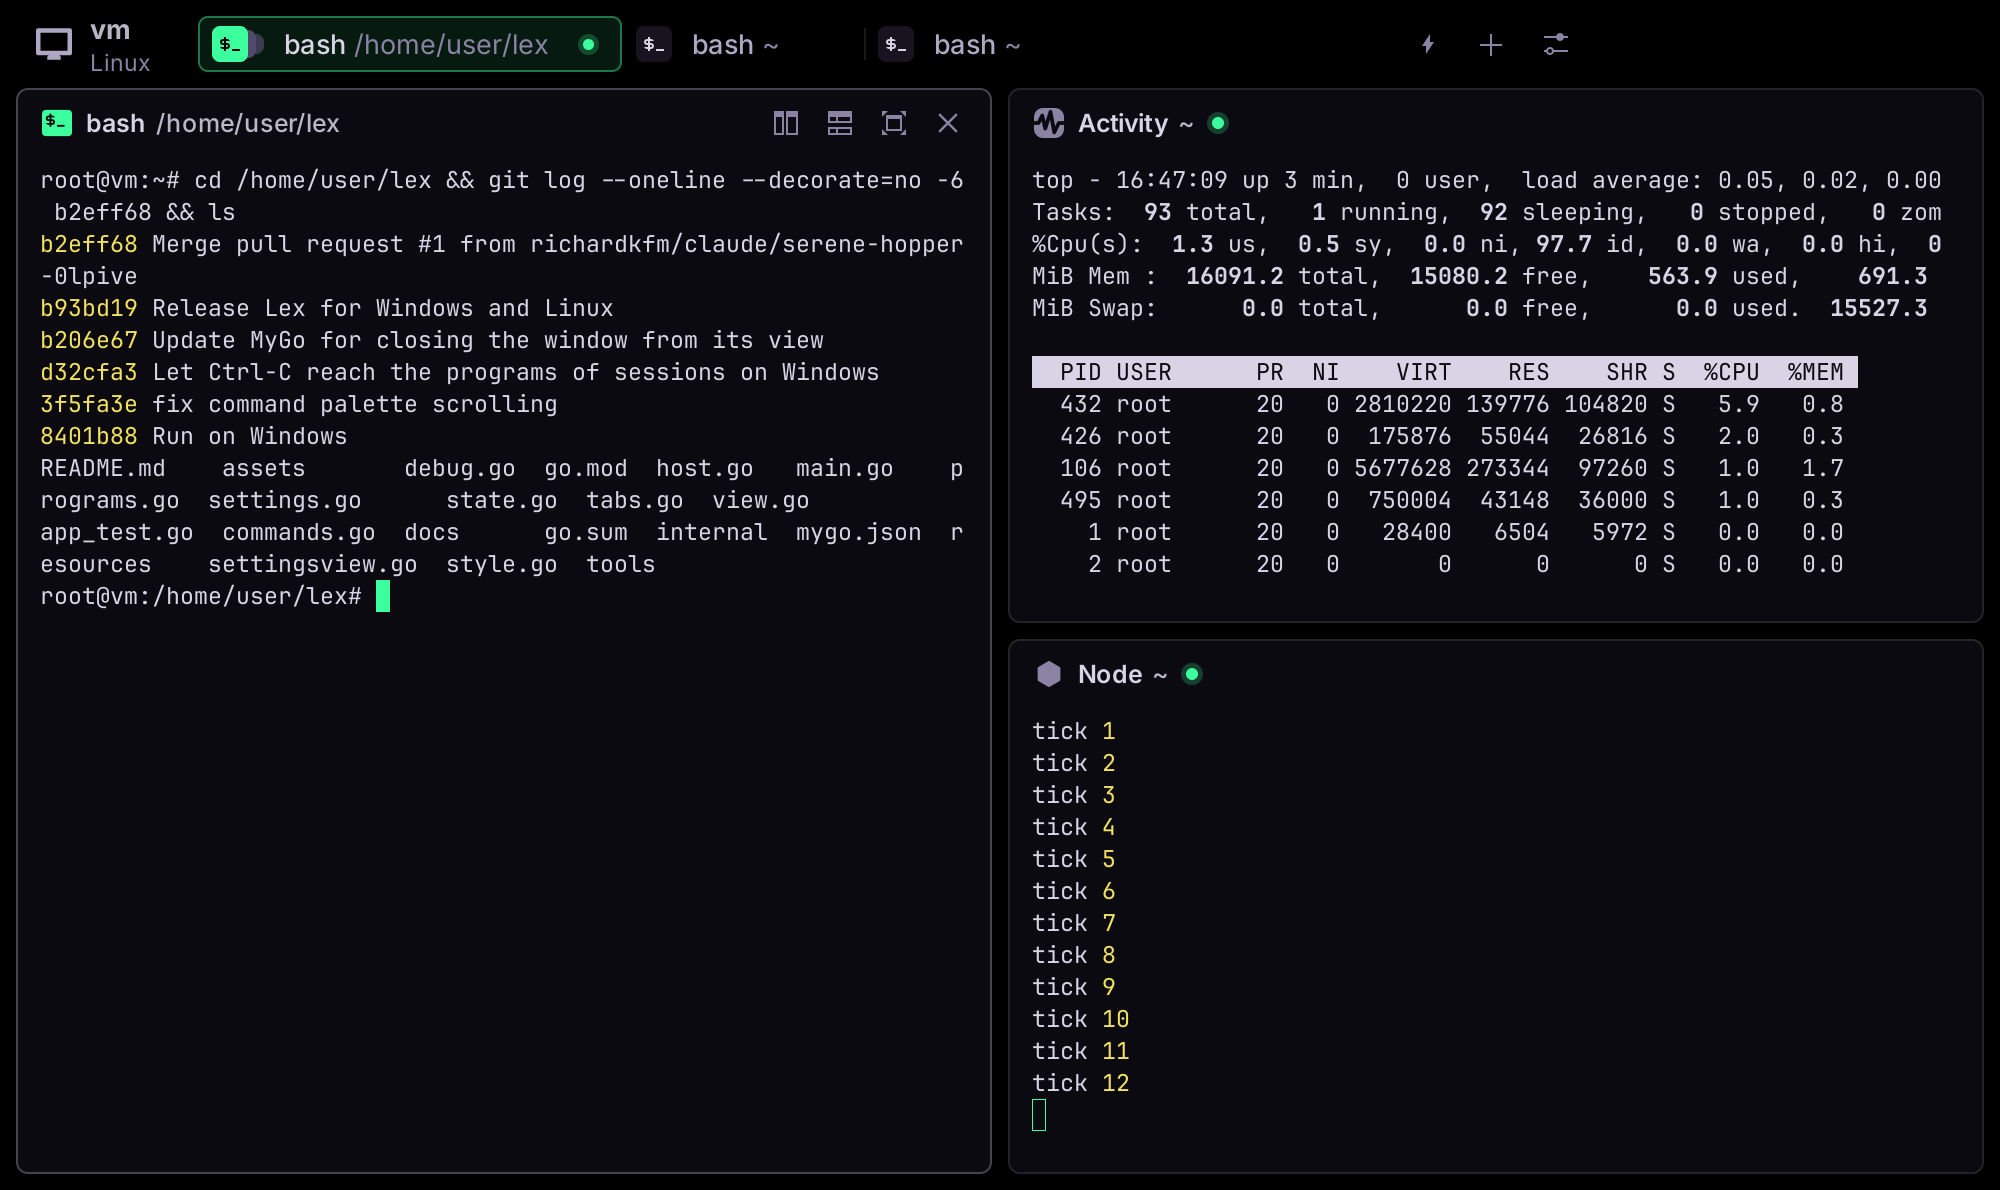
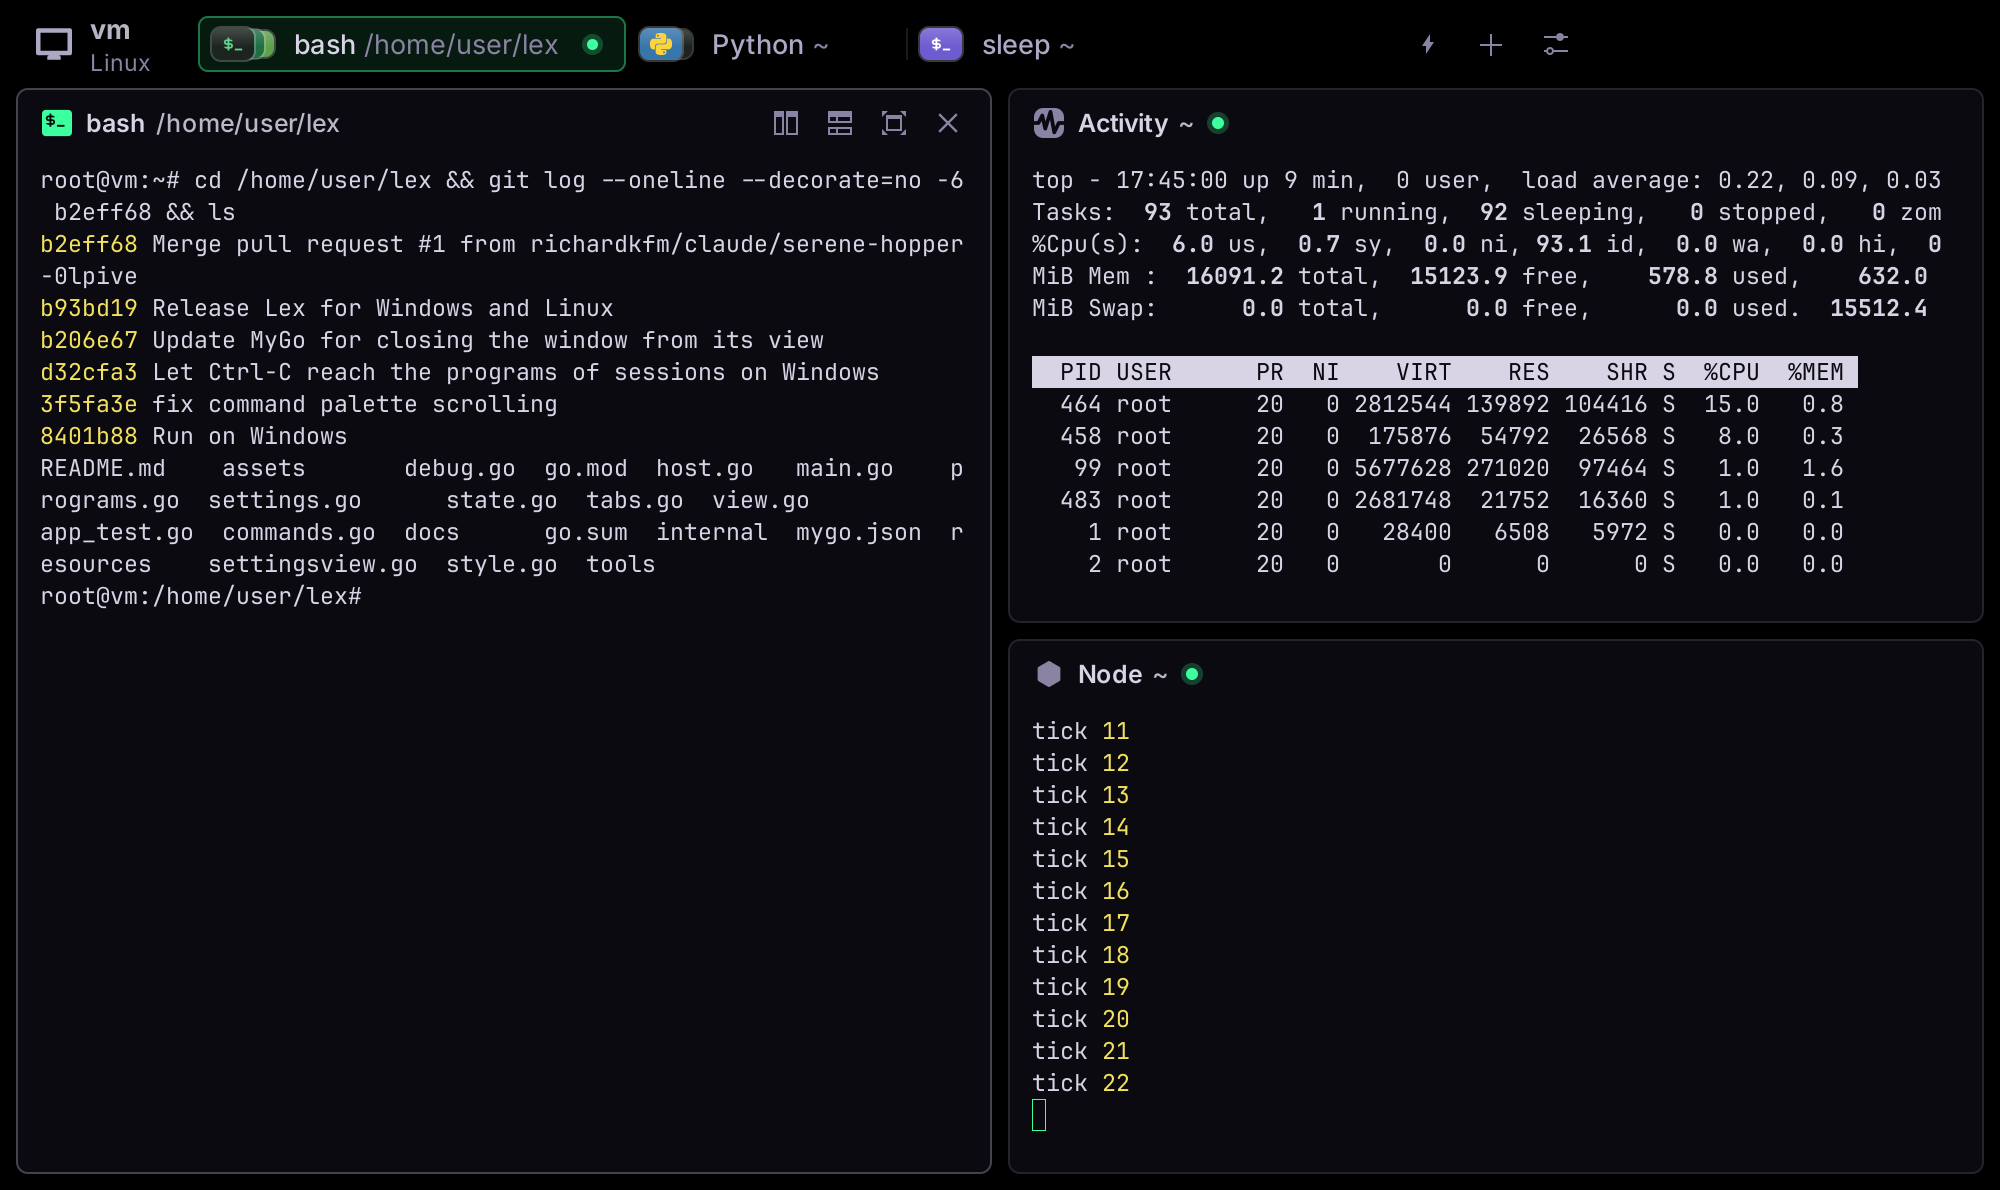
Bring back the original's stacked program cards in the tabs
The tabs' tiles are again the original's little cards: 21x16 pills in
their programs' colors (the shell's dark green, Node's green, Python's
blue, a color of its own for any other program), each in a light rim
with a soft shadow and a sheen along its top, the focused pane's in
front with its glyph and the others peeking out 5 px behind it. The
glyphs stay the current ones ($_, the logos, the pulse).

Claude-Session: https://claude.ai/code/session_013UKWhSrB5hz3PLbYRVpi52

diff --git a/programs.go b/programs.go
@@ -33,59 +33,61 @@ func icon(name string) *ui.SVG {
 }
 
 // program is how a program shows: its name, its glyph in headers, and the
-// glyph on its tile in tabs. Tiles are one color, the theme's, whatever the
-// program: logos keep their shapes, not their brands' colors.
+// tile of tabs, in its own colors.
 type program struct {
 	Name string
 	// Glyph is the icon of the pane's header, in the color of the text.
 	Glyph string
-	// TileGlyph is the glyph on the program's tile in tabs, Glyph when
-	// empty.
-	TileGlyph string
+	// TileBg and TileFg color the tile of the program in tabs; TileGlyph
+	// is the glyph on it, Glyph when empty.
+	TileBg, TileFg ui.Color
+	TileGlyph      string
+	// TileBorder outlines light tiles.
+	TileBorder bool
 	// Shell is a shell at its prompt.
 	Shell bool
 }
 
 var (
-	shellTile = program{Glyph: "utilities-terminal", TileGlyph: "terminal-prompt", Shell: true}
+	shellTile = program{Glyph: "utilities-terminal", TileGlyph: "terminal-prompt", TileBg: ui.Hex("#1d2420"), TileFg: ui.Hex("#5fd38d"), Shell: true}
 
 	programs = map[string]program{
-		"codex":     {Name: "Codex", Glyph: "brand:openai"},
-		"claude":    {Name: "Claude Code", Glyph: "brand:claude"},
-		"node":      {Name: "Node", Glyph: "node-hex", TileGlyph: "brand:nodedotjs"},
-		"bun":       {Name: "Bun", Glyph: "brand:bun"},
-		"deno":      {Name: "Deno", Glyph: "brand:deno"},
-		"python":    {Name: "Python", Glyph: "brand:python"},
-		"lazygit":   {Name: "Git Changes", Glyph: "brand:git"},
-		"tig":       {Name: "Git Log", Glyph: "vcs-branch"},
-		"git":       {Name: "Git", Glyph: "brand:git"},
-		"vim":       {Name: "Vim", Glyph: "brand:vim"},
-		"nvim":      {Name: "Neovim", Glyph: "brand:neovim"},
-		"hx":        {Name: "Helix", Glyph: "brand:helix"},
-		"emacs":     {Name: "Emacs", Glyph: "brand:gnuemacs"},
-		"htop":      {Name: "Activity", Glyph: "utilities-system-monitor", TileGlyph: "activity-pulse"},
-		"btop":      {Name: "Activity", Glyph: "utilities-system-monitor", TileGlyph: "activity-pulse"},
-		"top":       {Name: "Activity", Glyph: "utilities-system-monitor", TileGlyph: "activity-pulse"},
-		"ssh":       {Name: "SSH", Glyph: "network-workgroup"},
-		"mosh":      {Name: "Mosh", Glyph: "network-workgroup"},
-		"docker":    {Name: "Docker", Glyph: "brand:docker"},
-		"go":        {Name: "Go", Glyph: "brand:go"},
-		"cargo":     {Name: "Cargo", Glyph: "brand:rust"},
-		"rustc":     {Name: "Rust", Glyph: "brand:rust"},
-		"npm":       {Name: "npm", Glyph: "brand:npm"},
-		"pnpm":      {Name: "pnpm", Glyph: "brand:pnpm"},
-		"yarn":      {Name: "Yarn", Glyph: "brand:yarn"},
-		"ruby":      {Name: "Ruby", Glyph: "brand:ruby"},
-		"irb":       {Name: "Ruby", Glyph: "brand:ruby"},
-		"lua":       {Name: "Lua", Glyph: "brand:lua"},
-		"php":       {Name: "PHP", Glyph: "brand:php"},
-		"psql":      {Name: "PostgreSQL", Glyph: "brand:postgresql"},
-		"mysql":     {Name: "MySQL", Glyph: "brand:mysql"},
-		"redis-cli": {Name: "Redis", Glyph: "brand:redis"},
-		"tmux":      {Name: "tmux", Glyph: "brand:tmux"},
-		"make":      {Name: "Make", Glyph: "run-build"},
-		"swift":     {Name: "Swift", Glyph: "brand:swift"},
-		"kotlin":    {Name: "Kotlin", Glyph: "brand:kotlin"},
+		"codex":     {Name: "Codex", Glyph: "brand:openai", TileBg: ui.Hex("#f7f7f7"), TileFg: ui.Hex("#1a1a1a"), TileBorder: true},
+		"claude":    {Name: "Claude Code", Glyph: "brand:claude", TileBg: ui.Hex("#d97757"), TileFg: ui.Hex("#ffffff")},
+		"node":      {Name: "Node", Glyph: "node-hex", TileGlyph: "brand:nodedotjs", TileBg: ui.Hex("#5fa04e"), TileFg: ui.Hex("#ffffff")},
+		"bun":       {Name: "Bun", Glyph: "brand:bun", TileBg: ui.Hex("#fbf0df"), TileFg: ui.Hex("#3b2a20"), TileBorder: true},
+		"deno":      {Name: "Deno", Glyph: "brand:deno", TileBg: ui.Hex("#1b1b1b"), TileFg: ui.Hex("#ffffff")},
+		"python":    {Name: "Python", Glyph: "brand:python", TileBg: ui.Hex("#3776ab"), TileFg: ui.Hex("#ffd43b")},
+		"lazygit":   {Name: "Git Changes", Glyph: "brand:git", TileBg: ui.Hex("#3f8f4f"), TileFg: ui.Hex("#ffffff")},
+		"tig":       {Name: "Git Log", Glyph: "vcs-branch", TileBg: ui.Hex("#f05032"), TileFg: ui.Hex("#ffffff")},
+		"git":       {Name: "Git", Glyph: "brand:git", TileBg: ui.Hex("#f05032"), TileFg: ui.Hex("#ffffff")},
+		"vim":       {Name: "Vim", Glyph: "brand:vim", TileBg: ui.Hex("#019733"), TileFg: ui.Hex("#ffffff")},
+		"nvim":      {Name: "Neovim", Glyph: "brand:neovim", TileBg: ui.Hex("#2b7a3d"), TileFg: ui.Hex("#ffffff")},
+		"hx":        {Name: "Helix", Glyph: "brand:helix", TileBg: ui.Hex("#281733"), TileFg: ui.Hex("#c7a3f5")},
+		"emacs":     {Name: "Emacs", Glyph: "brand:gnuemacs", TileBg: ui.Hex("#7f5ab6"), TileFg: ui.Hex("#ffffff")},
+		"htop":      {Name: "Activity", Glyph: "utilities-system-monitor", TileGlyph: "activity-pulse", TileBg: ui.Hex("#1f6f43"), TileFg: ui.Hex("#a7f3c4")},
+		"btop":      {Name: "Activity", Glyph: "utilities-system-monitor", TileGlyph: "activity-pulse", TileBg: ui.Hex("#1f6f43"), TileFg: ui.Hex("#a7f3c4")},
+		"top":       {Name: "Activity", Glyph: "utilities-system-monitor", TileGlyph: "activity-pulse", TileBg: ui.Hex("#1f6f43"), TileFg: ui.Hex("#a7f3c4")},
+		"ssh":       {Name: "SSH", Glyph: "network-workgroup", TileBg: ui.Hex("#5b4bd6"), TileFg: ui.Hex("#ffffff")},
+		"mosh":      {Name: "Mosh", Glyph: "network-workgroup", TileBg: ui.Hex("#5b4bd6"), TileFg: ui.Hex("#ffffff")},
+		"docker":    {Name: "Docker", Glyph: "brand:docker", TileBg: ui.Hex("#2496ed"), TileFg: ui.Hex("#ffffff")},
+		"go":        {Name: "Go", Glyph: "brand:go", TileBg: ui.Hex("#00add8"), TileFg: ui.Hex("#ffffff")},
+		"cargo":     {Name: "Cargo", Glyph: "brand:rust", TileBg: ui.Hex("#2b2b2b"), TileFg: ui.Hex("#f4a261")},
+		"rustc":     {Name: "Rust", Glyph: "brand:rust", TileBg: ui.Hex("#2b2b2b"), TileFg: ui.Hex("#f4a261")},
+		"npm":       {Name: "npm", Glyph: "brand:npm", TileBg: ui.Hex("#cb3837"), TileFg: ui.Hex("#ffffff")},
+		"pnpm":      {Name: "pnpm", Glyph: "brand:pnpm", TileBg: ui.Hex("#f69220"), TileFg: ui.Hex("#ffffff")},
+		"yarn":      {Name: "Yarn", Glyph: "brand:yarn", TileBg: ui.Hex("#2c8ebb"), TileFg: ui.Hex("#ffffff")},
+		"ruby":      {Name: "Ruby", Glyph: "brand:ruby", TileBg: ui.Hex("#cc342d"), TileFg: ui.Hex("#ffffff")},
+		"irb":       {Name: "Ruby", Glyph: "brand:ruby", TileBg: ui.Hex("#cc342d"), TileFg: ui.Hex("#ffffff")},
+		"lua":       {Name: "Lua", Glyph: "brand:lua", TileBg: ui.Hex("#2c2d72"), TileFg: ui.Hex("#ffffff")},
+		"php":       {Name: "PHP", Glyph: "brand:php", TileBg: ui.Hex("#777bb4"), TileFg: ui.Hex("#ffffff")},
+		"psql":      {Name: "PostgreSQL", Glyph: "brand:postgresql", TileBg: ui.Hex("#336791"), TileFg: ui.Hex("#ffffff")},
+		"mysql":     {Name: "MySQL", Glyph: "brand:mysql", TileBg: ui.Hex("#00758f"), TileFg: ui.Hex("#ffffff")},
+		"redis-cli": {Name: "Redis", Glyph: "brand:redis", TileBg: ui.Hex("#d82c20"), TileFg: ui.Hex("#ffffff")},
+		"tmux":      {Name: "tmux", Glyph: "brand:tmux", TileBg: ui.Hex("#1bb91f"), TileFg: ui.Hex("#ffffff")},
+		"make":      {Name: "Make", Glyph: "run-build", TileBg: ui.Hex("#6b7280"), TileFg: ui.Hex("#ffffff")},
+		"swift":     {Name: "Swift", Glyph: "brand:swift", TileBg: ui.Hex("#f05138"), TileFg: ui.Hex("#ffffff")},
+		"kotlin":    {Name: "Kotlin", Glyph: "brand:kotlin", TileBg: ui.Hex("#7f52ff"), TileFg: ui.Hex("#ffffff")},
 	}
 
 	shells = map[string]bool{"zsh": true, "bash": true, "fish": true, "sh": true, "dash": true, "nu": true, "pwsh": true, "elvish": true, "xonsh": true, "tcsh": true, "csh": true, "ksh": true,
@@ -97,7 +99,7 @@ func init() {
 	programs["ipython"] = programs["python"]
 	programs["view"] = programs["vim"]
 	programs["vi"] = programs["vim"]
-	programs["less"] = program{Name: "Pager", Glyph: "text-x-generic"}
+	programs["less"] = program{Name: "Pager", Glyph: "text-x-generic", TileBg: ui.Hex("#475569"), TileFg: ui.Hex("#ffffff")}
 	programs["man"] = programs["less"]
 }
 
@@ -112,6 +114,19 @@ func programOf(name string) program {
 		p.Name = name
 		return p
 	}
-	// Any other program: its own name, with a terminal's glyph.
-	return program{Name: name, Glyph: "utilities-terminal", TileGlyph: "terminal-prompt"}
+	// Any other program: its own name, on a tile of a color of its own.
+	p := program{Name: name, Glyph: "utilities-terminal", TileGlyph: "terminal-prompt", TileFg: ui.Hex("#ffffff")}
+	p.TileBg = hashColor(name)
+	return p
+}
+
+// hashColor picks a color for a name, the same every time.
+func hashColor(s string) ui.Color {
+	palette := []string{"#6d5bd0", "#2f80ed", "#0f9d8a", "#d9822b", "#c2417d", "#3a7d44", "#8a5a44", "#4e5d94"}
+	h := uint32(2166136261)
+	for i := 0; i < len(s); i++ {
+		h ^= uint32(s[i])
+		h *= 16777619
+	}
+	return ui.Hex(palette[h%uint32(len(palette))])
 }

diff --git a/tabs.go b/tabs.go
@@ -15,9 +15,9 @@ const (
 	tabH     = 28
 	tabMaxW  = 214
 	tabMinW  = 120
-	tileW    = 18
-	tileH    = 18
-	tileStep = 4 // how far each tile behind peeks out
+	tileW    = 21
+	tileH    = 16
+	tileStep = 5 // how far each tile behind peeks out
 	tabR     = 5 // the tabs' corners
 )
 
@@ -106,7 +106,7 @@ func (a *App) tabItem(c *ui.Context, k *colors, i int, t *Tab, width float32) {
 	// shows then.
 	hovered := e.Hovered()
 	e.Children(func() {
-		a.tiles(c, k, t, active)
+		a.tiles(c, k, t)
 		if a.renaming == t {
 			a.renameField(c, t, name)
 			return
@@ -227,9 +227,8 @@ func (a *App) tabMenu(m *ui.Menu, t *Tab) {
 }
 
 // tiles draws the tiles of a tab's programs: the focused pane's in front,
-// the others peeking out behind it. The active tab's front tile is the
-// accent's, as the active app on patina's bar.
-func (a *App) tiles(c *ui.Context, k *colors, t *Tab, active bool) {
+// the others peeking out behind it.
+func (a *App) tiles(c *ui.Context, k *colors, t *Tab) {
 	panes := t.panes()
 	front := t.Focus
 	var back []*Pane
@@ -242,20 +241,15 @@ func (a *App) tiles(c *ui.Context, k *colors, t *Tab, active bool) {
 		back = back[:2]
 	}
 	w := float32(tileW + tileStep*len(back) + 2)
-	ui.Box(c).Size(w, tileH+2).Shrink(0).Draw(func(p *ui.Painter, r ui.Rect) {
-		y := r.Y + 1
+	ui.Box(c).Size(w, tileH+4).Shrink(0).Draw(func(p *ui.Painter, r ui.Rect) {
+		y := r.Y + 2
 		for i := len(back) - 1; i >= 0; i-- {
 			x := r.X + 1 + float32(tileStep*(i+1))
-			inset := float32(i+1) * 2
-			tile := ui.Rect{X: x, Y: y + inset, W: tileW, H: tileH - 2*inset}
-			p.Fill(tile, k.tileBack.Alpha(1-0.3*float32(i)), 4)
+			inset := float32(i+1) * 0.8
+			drawTile(p, k, ui.Rect{X: x, Y: y + inset, W: tileW, H: tileH - 2*inset}, paneProgram(back[i]), false)
 		}
 		if front != nil {
-			bg, fg := k.tile, k.tileFg
-			if active {
-				bg, fg = k.accent, k.bg
-			}
-			drawTile(p, ui.Rect{X: r.X + 1, Y: y, W: tileW, H: tileH}, paneProgram(front), bg, fg)
+			drawTile(p, k, ui.Rect{X: r.X + 1, Y: y, W: tileW, H: tileH}, paneProgram(front), true)
 		}
 	})
 }
@@ -267,16 +261,28 @@ func paneProgram(p *Pane) program {
 	return programOf(p.info.Program)
 }
 
-// drawTile draws a program's tile: a flat rounded square with its glyph,
-// one color on another, as patina draws every app's icon.
-func drawTile(p *ui.Painter, r ui.Rect, prog program, bg, fg ui.Color) {
-	p.Fill(r, bg, 4)
+// drawTile draws a program's tile: a rounded card of its color with a
+// light rim, a soft shadow and a sheen along its top, and its glyph when it
+// is in front.
+func drawTile(p *ui.Painter, k *colors, r ui.Rect, prog program, glyph bool) {
+	const rad = 4.5
+	p.Shadow(r, rad, 0, 0.5, 1.5, 0, ui.RGBA(0, 0, 0, 0.18))
+	rim := ui.Rect{X: r.X - 1, Y: r.Y - 1, W: r.W + 2, H: r.H + 2}
+	p.Fill(rim, k.tileRim, rad+1)
+	p.Fill(r, prog.TileBg, rad)
+	if prog.TileBorder {
+		p.Stroke(r, ui.RGBA(0, 0, 0, 0.12), rad, 0.5)
+	}
+	p.FillGradient(r, ui.LinearGradient{From: ui.RGBA(255, 255, 255, 0.18), To: ui.RGBA(255, 255, 255, 0), Angle: 180, End: 0.6}, rad)
+	if !glyph {
+		return
+	}
 	g := prog.TileGlyph
 	if g == "" {
 		g = prog.Glyph
 	}
-	s := float32(12)
-	p.Icon(icon(g), ui.Rect{X: r.X + (r.W-s)/2, Y: r.Y + (r.H-s)/2, W: s, H: s}, fg)
+	s := float32(11)
+	p.Icon(icon(g), ui.Rect{X: r.X + (r.W-s)/2, Y: r.Y + (r.H-s)/2, W: s, H: s}, prog.TileFg)
 }
 
 // fadeText draws spans on a line, fading the end out when they do not

diff --git a/style.go b/style.go
@@ -28,9 +28,9 @@ type colors struct {
 	// of it and its thin edge.
 	accent, selFill, selEdge ui.Color
 	sep                      ui.Color
-	// tile and tileFg are the program tiles of tabs; tileBack is a tile
-	// peeking out behind.
-	tile, tileFg, tileBack ui.Color
+	// tile and tileFg face the host's glyph in its popover; tileRim rims
+	// the program tiles of tabs.
+	tile, tileFg, tileRim ui.Color
 	// switchOff is the track of a switch that is off.
 	switchOff ui.Color
 
@@ -58,9 +58,9 @@ var darkColors = colors{
 	selEdge: ui.RGBA(60, 255, 157, 0.40), // and four times as much on its edge
 	sep:     ui.RGBA(216, 212, 230, 0.12),
 
-	tile:     ui.Hex("#17141f"), // base02
-	tileFg:   ui.Hex("#d8d4e6"),
-	tileBack: ui.Hex("#524a6b"), // base03
+	tile:    ui.Hex("#17141f"), // base02
+	tileFg:  ui.Hex("#d8d4e6"),
+	tileRim: ui.RGBA(255, 255, 255, 0.22),
 
 	switchOff: ui.Hex("#17141f"), // base02
 
@@ -93,9 +93,9 @@ var lightColors = colors{
 	selEdge: ui.RGBA(7, 113, 65, 0.40),
 	sep:     ui.RGBA(42, 38, 56, 0.12),
 
-	tile:     ui.Hex("#2a2638"), // base05: dark tiles, as aurora's app glyphs
-	tileFg:   ui.Hex("#f7f6fb"),
-	tileBack: ui.Hex("#928bab"), // base03
+	tile:    ui.Hex("#2a2638"), // base05: dark tiles, as aurora's app glyphs
+	tileFg:  ui.Hex("#f7f6fb"),
+	tileRim: ui.RGBA(255, 255, 255, 0.95),
 
 	switchOff: ui.Hex("#e0dcec"), // base02
 

diff --git a/README.md b/README.md
@@ -31,8 +31,8 @@ Linux and macOS.
   sight. When the window is in the background, a long command finishing
   posts a notification.
 - **Tab icons** stack the tiles of a tab's programs, the focused pane's in
-  front, as Rex does: one-color glyphs and logos on flat tiles, the active
-  tab's in the accent. Tabs reorder by dragging, rename by double-click, and
+  front, as Rex does: little rimmed cards in their programs' colors, the
+  others peeking out behind. Tabs reorder by dragging, rename by double-click, and
   have a context menu.
 - **Host chip** with the machine's name and model; its popover shows the
   chip, memory, OS and the session server.
